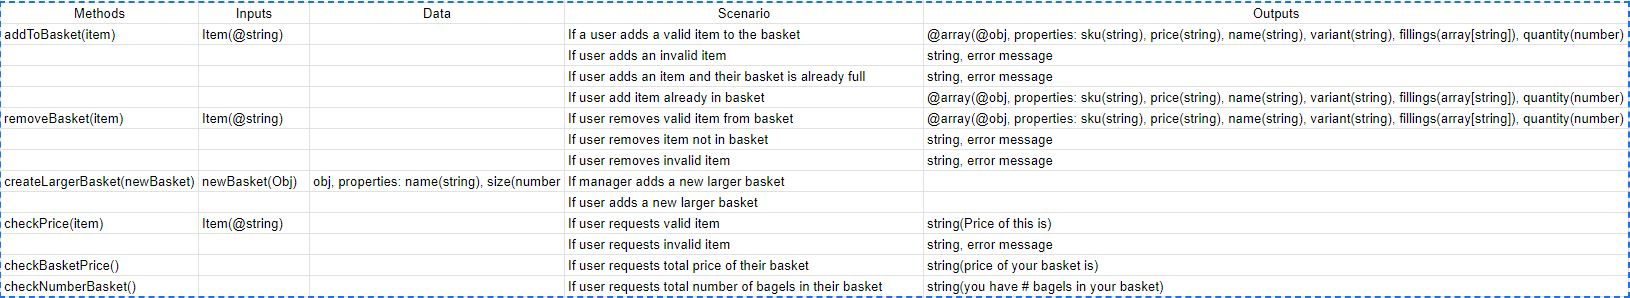
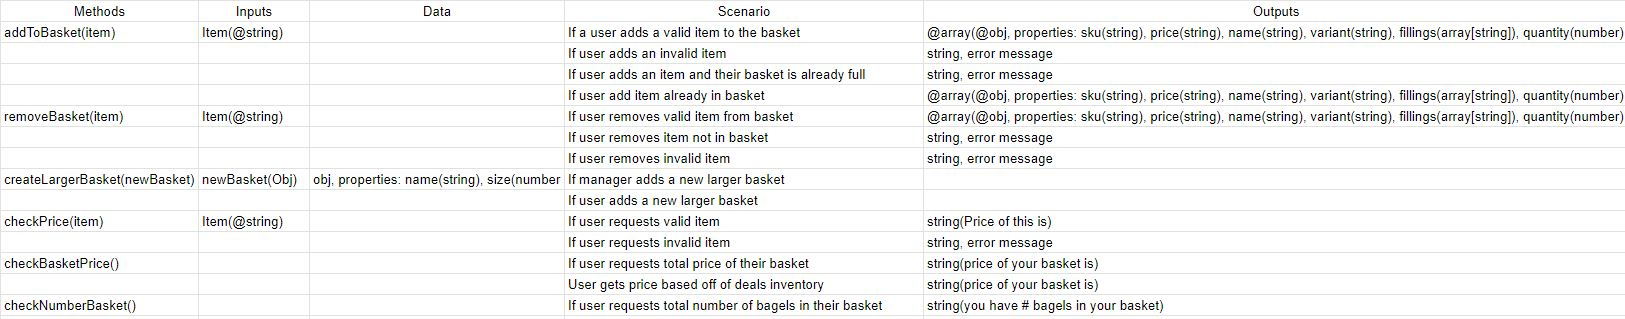
deals mostly implemented, only missing coffee and a bagel deal, updated domain model

Changed region(s): [[0.0, 0.0, 1.0, 0.906], [0.0, 0.9362, 1.0, 1.0]]

diff --git a/src/basket.js b/src/basket.js
@@ -6,21 +6,21 @@ const store = inventory.inventory
 class Basket {
     constructor(user) {
         this.basket = [],
-        this.capacity = 5
+            this.capacity = 15
         this.user = user
     }
 
     addToBasket(item) {
         // Checks for valid input
-        if(item && typeof item !== 'string'){
+        if (item && typeof item !== 'string') {
             return 'ERROR: Please type in an item'
         }
-        if(!item) {
+        if (!item) {
             return 'ERROR: Please type in an item'
         }
         // Check that item is in the inventory/store
         const target = store.filter((obj) => obj.sku === item)
-        if (target.length === 0){
+        if (target.length === 0) {
             return 'ERROR: Item not found'
         }
 
@@ -28,22 +28,22 @@ class Basket {
         // find total items with quantities
         function basketTotal(arr) {
             let itemTotal = 0
-            for(let i = 0; i < arr.length; i++) {
-                itemTotal += arr[i].quantity                
+            for (let i = 0; i < arr.length; i++) {
+                itemTotal += arr[i].quantity
             }
             return itemTotal
         }
 
         const baskAmount = basketTotal(this.basket)
-        if(baskAmount === this.capacity){
+        if (baskAmount === this.capacity) {
             return "Basket is full"
         }
 
         // All checks complete, now adding to basket 
         const targObj = target[0]
         // Check if item is already in basket and add to the quantity
-        const baskCheck = this.basket.find(({sku}) => sku === targObj.sku)
-        if(baskCheck !== undefined) {
+        const baskCheck = this.basket.find(({ sku }) => sku === targObj.sku)
+        if (baskCheck !== undefined) {
             const baskIndex = this.basket.indexOf(baskCheck)
             this.basket[baskIndex].quantity += 1
             return this.basket
@@ -56,24 +56,24 @@ class Basket {
 
     removeBasket(item) {
         // Check for valid input 
-        if(item && typeof item !== 'string') {
+        if (item && typeof item !== 'string') {
             return 'ERROR: Please type in an item'
         }
-        if(!item) {
+        if (!item) {
             return 'ERROR: Please type in an item'
         }
         // Check if item exists in store
-        const targStore = store.find(({sku}) => sku === item)
-        if (targStore === undefined){
+        const targStore = store.find(({ sku }) => sku === item)
+        if (targStore === undefined) {
             return 'ERROR: Item not found'
         }
         // Check if item is in basket
-        const targ = this.basket.find(({sku}) => sku === item)
-        if(targ === undefined) {
+        const targ = this.basket.find(({ sku }) => sku === item)
+        if (targ === undefined) {
             return 'ERROR: Item not in basket'
         }
         // If item is in basket and quantity is > 1
-        if(targ.quantity > 1){
+        if (targ.quantity > 1) {
             const baskIndex = this.basket.indexOf(targ);
             this.basket[baskIndex].quantity -= 1
             return this.basket
@@ -83,7 +83,7 @@ class Basket {
     }
 
     changeSizeBasket(num) {
-        if(this.user !== "Bob") {
+        if (this.user !== "Bob") {
             return "Only the manager is authorised to change basket size!"
         }
         this.basket.capacity = num;
@@ -92,14 +92,14 @@ class Basket {
 
     checkPrice(item) {
         // Checks for valid input
-        if(item && typeof item !== 'string'){
+        if (item && typeof item !== 'string') {
             return 'ERROR: Please type in an item'
         }
-        if(!item) {
+        if (!item) {
             return 'ERROR: Please type in an item'
         }
-        const targStore = store.find(({sku}) => sku === item)
-        if(targStore === undefined) {
+        const targStore = store.find(({ sku }) => sku === item)
+        if (targStore === undefined) {
             return 'ERROR: Item not found'
         }
         return `The price of the ${targStore.variant} ${targStore.name} is £${targStore.price}`
@@ -115,11 +115,50 @@ class Basket {
 
     checkBasketPrice() {
         let cost = 0
+        // const wantCoffee = this.basket.find(({ sku }) => sku === "COF")
+        // console.log(wantCoffee)
         this.basket.forEach((element) => {
-            cost += element.quantity * element.price
+            if (element.sku === "BGLO" && element.quantity >= 6) {
+                let dealBagels = element.quantity
+                for (let i = dealBagels; i >= 6; i -= 6) {
+                    cost += 2.49
+                    dealBagels -= 6
+                }
+                cost += dealBagels * element.price
+            }
+            else if (element.sku === "BGLP" && element.quantity >= 12) {
+                let dealBagels = element.quantity
+                for (let i = dealBagels; i >= 12; i -= 12) {
+                    cost += 3.99
+                    dealBagels -= 12
+                }
+                // if(wantCoffee !== undefined){
+                //     let dealCoffee = wantCoffee.quantity
+                //     console.log(dealCoffee)
+                //     while(dealCoffee > 0 || dealBagels > 0) {
+                //         cost += 1.25
+                //         dealCoffee--
+                //         dealBagels--
+                //     }                    
+                // }
+                cost += dealBagels * element.price
+            }
+            else if (element.sku === "BGLE" && element.quantity >= 6) {
+                let dealBagels = element.quantity
+                for (let i = dealBagels; i >= 6; i -= 6) {
+                    cost += 2.49
+                    dealBagels -= 6
+                }
+                cost += dealBagels * element.price
+            }
+            else {
+                cost += element.quantity * element.price
+            }
         })
         return `The price of your basket is £${cost}`
     }
+
+
 
 }
 

diff --git a/spec/basket.spec.js b/spec/basket.spec.js
@@ -1,7 +1,7 @@
 // import here
 import Basket from '../src/basket.js';
 // eslint-disable-next-line no-use-before-define
-import inventory from '../inventory.json' assert { type: 'json' }; 
+import inventory from '../inventory.json' assert { type: 'json' };
 
 const store = inventory.inventory
 
@@ -15,12 +15,12 @@ describe('Basket', () => {
 
     // Then
     expect(result).toEqual([{
-        sku: "BGLO",
-        price: "0.49",
-        name: "Bagel",
-        variant: "Onion",
-        quantity: 1
-      }])
+      sku: "BGLO",
+      price: "0.49",
+      name: "Bagel",
+      variant: "Onion",
+      quantity: 1
+    }])
   })
 
   it('Add valid item to basket that is already in', () => {
@@ -33,12 +33,12 @@ describe('Basket', () => {
 
     // Then
     expect(result).toEqual([{
-        sku: "BGLO",
-        price: "0.49",
-        name: "Bagel",
-        variant: "Onion",
-        quantity: 2
-      }])
+      sku: "BGLO",
+      price: "0.49",
+      name: "Bagel",
+      variant: "Onion",
+      quantity: 2
+    }])
   })
 
   it('Add invalid item to basket', () => {
@@ -141,8 +141,18 @@ describe('Basket', () => {
     basket.addToBasket(item)
     basket.addToBasket(item)
     basket.addToBasket(item)
+    basket.addToBasket(item)
+    basket.addToBasket(item)
+    basket.addToBasket(item)
+    basket.addToBasket(item)
+    basket.addToBasket(item)
+    basket.addToBasket(item)
+    basket.addToBasket(item)
+    basket.addToBasket(item)
+    basket.addToBasket(item)
+    basket.addToBasket(item)
     const result = basket.addToBasket(item)
-    
+
     // Then
     expect(result).toEqual("Basket is full")
   })
@@ -234,4 +244,78 @@ describe('Basket', () => {
     // Then
     expect(result).toEqual('The price of your basket is £1.37')
   })
+
+  it('Check 6 onion for 2.49', () => {
+    // Given
+    const basket = new Basket()
+    const item = "BGLO"    
+
+    // When
+    // 6 for 2.49
+    for (let i = 0; i < 6; i++) {
+      const res = basket.addToBasket(item)
+      expect(res[0].quantity).toEqual(i + 1)
+    }
+
+    const result = basket.checkBasketPrice()
+
+    // Then
+    expect(result).toEqual('The price of your basket is £2.49')
+  })
+
+  it('Check for 12 plain for 3.99', () => {
+    // Given
+    // 12 for 3.99
+
+    const basket = new Basket()
+    const item = "BGLP"
+    // When
+    for (let i = 0; i < 12; i++) {
+      const res = basket.addToBasket(item)
+      expect(res[0].quantity).toEqual(i + 1)
+    }
+
+    const result = basket.checkBasketPrice()
+
+    // Then
+    expect(result).toEqual('The price of your basket is £3.99')
+  })
+
+  it('Check for 6 everything for 2.49', () => {
+    // Given
+    // 6 for 2.49
+    const basket = new Basket()
+    const item = "BGLE"
+
+    // When
+    for (let i = 0; i < 6; i++) {
+      const res = basket.addToBasket(item)
+      expect(res[0].quantity).toEqual(i + 1)
+    }
+
+    const result = basket.checkBasketPrice()
+
+    // Then
+    expect(result).toEqual('The price of your basket is £2.49')
+  })
+
+  xit('Check for coffee and plain for 1.25', () => {
+    // Given
+    // 6 for 2.49
+    const basket = new Basket()
+    const item1 = "BGLP"
+    const item2 = "COF"
+
+    // When
+    basket.addToBasket(item1)
+    basket.addToBasket(item2)
+
+    const result = basket.checkBasketPrice()
+
+    // Then
+    expect(result).toEqual('The price of your basket is £1.25')
+
+  })
+
+
 })

diff --git a/spec/testFile.js b/spec/testFile.js
@@ -1,0 +1,16 @@
+import Basket from '../src/basket.js';
+import inventory from '../inventory.json' assert { type: 'json' }; 
+
+function test() {
+const testBasket = new Basket()
+
+testBasket.addToBasket("BGLO")
+testBasket.addToBasket("BGLO")
+testBasket.addToBasket("BGLO")
+testBasket.addToBasket("BGLO")
+testBasket.addToBasket("BGLO")
+testBasket.addToBasket("BGLO")
+
+}
+
+export default test
